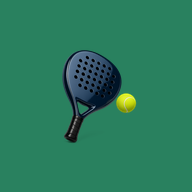
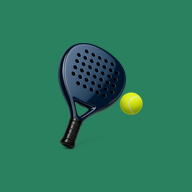
Vergroot racket op app-icoon (80% → 92%)

Changed region(s): [[0.2812, 0.2188, 0.75, 0.7812]]

diff --git a/maak_icons.py b/maak_icons.py
@@ -8,10 +8,10 @@ r_w, r_h = racket.size
 
 def maak_icon(maat, bestand):
     canvas = Image.new("RGBA", (maat, maat), GROEN + (255,))
-    doel_w = int(maat * 0.80)
+    doel_w = int(maat * 0.92)
     doel_h = int(doel_w * r_h / r_w)
-    if doel_h > int(maat * 0.80):
-        doel_h = int(maat * 0.80)
+    if doel_h > int(maat * 0.92):
+        doel_h = int(maat * 0.92)
         doel_w = int(doel_h * r_w / r_h)
     geschaald = racket.resize((doel_w, doel_h), Image.LANCZOS)
     x = (maat - doel_w) // 2
